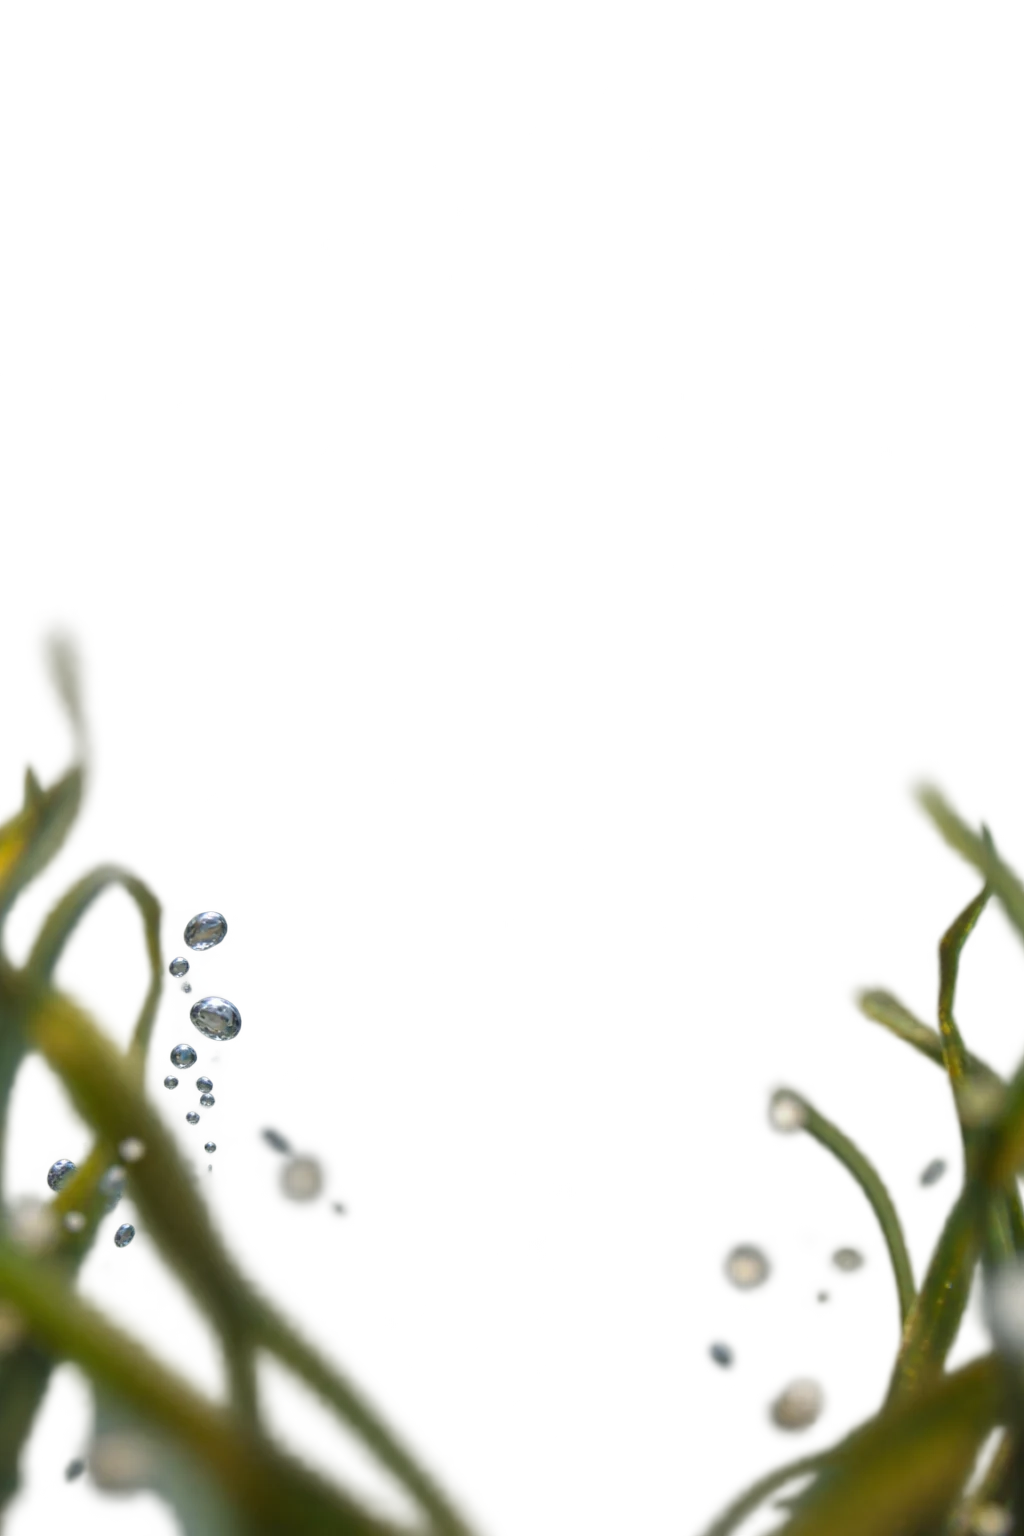
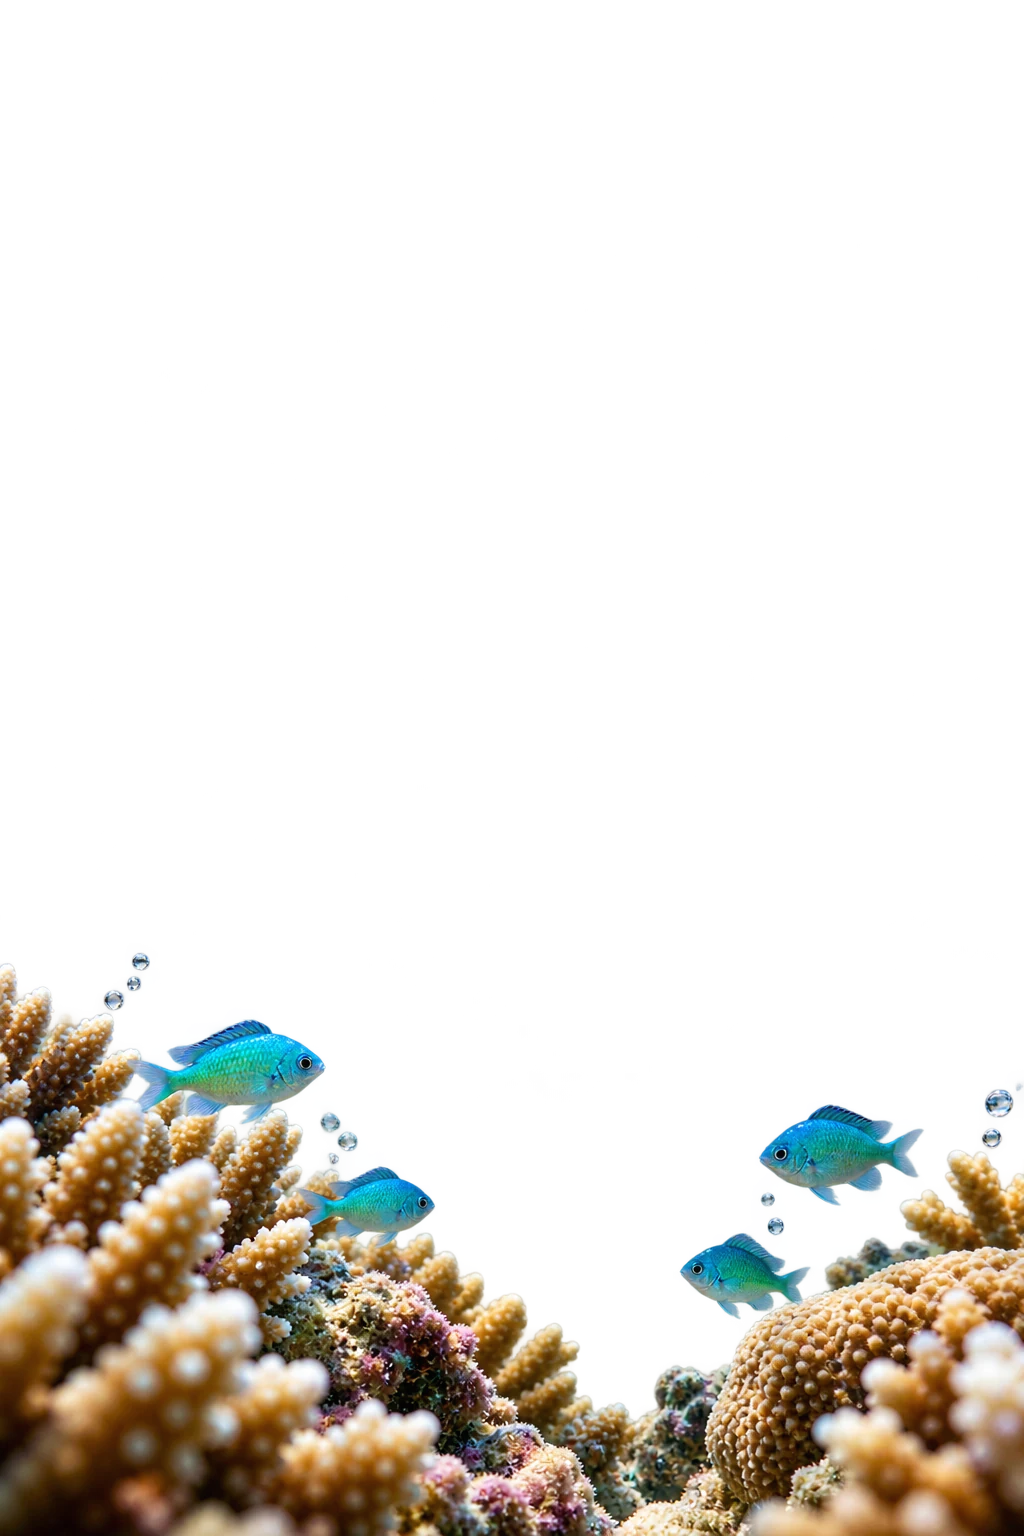
Reef gets its own coral-and-damselfish foreground; drop the Mars rock overlays
The AI rocks never matched NASA's photos closely enough and hid Ingenuity.
Foregrounds can also carve a soft clearing (frontClear) around a subject.

Changed region(s): [[0.0, 0.4062, 1.0, 1.0]]

diff --git a/js/channels.js b/js/channels.js
@@ -22,7 +22,7 @@ export const CHANNELS = [
       },
       {
         file: 'mars-wind', mode: 'loop',
-        art: { img: 'art/above/mars-wind.webp', front: 'art/above/mars-wind-front.webp', frontFilter: 'hue-rotate(14deg) saturate(0.62) brightness(0.92)', credit: 'Image: Jezero Crater on sol 44, Perseverance · NASA/JPL-Caltech', focus: [0.45, 0.55], fx: [{ type: 'mist', at: [0.52], color: '225,175,135', alpha: 0.1 }, { type: 'sheen', color: '255,215,170', alpha: 0.05, angle: 0.25, period: 55 }, { type: 'motes', color: '235,190,150', n: 70, fall: 2, drift: -22, alpha: 0.35 }] },
+        art: { img: 'art/above/mars-wind.webp', credit: 'Image: Jezero Crater on sol 44, Perseverance · NASA/JPL-Caltech', focus: [0.45, 0.55], fx: [{ type: 'mist', at: [0.52], color: '225,175,135', alpha: 0.1 }, { type: 'sheen', color: '255,215,170', alpha: 0.05, angle: 0.25, period: 55 }, { type: 'motes', color: '235,190,150', n: 70, fall: 2, drift: -22, alpha: 0.35 }] },
         title: 'Wind on Mars',
         place: 'Jezero Crater · 22 February 2021',
         about: 'This recording was made on Feb. 22, 2021, on the fourth sol (Martian day) by the SuperCam instrument on NASA’s Perseverance rover after deployment of the rover’s mast. Some wind can be heard, especially around 20 seconds into the recording.',
@@ -31,7 +31,7 @@ export const CHANNELS = [
       },
       {
         file: 'mars-dust-devil', mode: 'loop',
-        art: { img: 'art/above/mars-dust-devil.webp', front: 'art/above/mars-dust-devil-front.webp', frontFilter: 'hue-rotate(14deg) saturate(0.62) brightness(0.92)', gapAfter: 0.7, credit: 'Image: a dust devil on the crater ridge, 30 July 2021 · NASA/JPL-Caltech', focus: [0.6, 0.12], fx: [{ type: 'mist', at: [0.45, 0.62], color: '225,180,140', alpha: 0.09 }, { type: 'motes', color: '235,190,150', n: 90, fall: -3, drift: -30, alpha: 0.35 }] },
+        art: { img: 'art/above/mars-dust-devil.webp', gapAfter: 0.7, credit: 'Image: a dust devil on the crater ridge, 30 July 2021 · NASA/JPL-Caltech', focus: [0.6, 0.12], fx: [{ type: 'mist', at: [0.45, 0.62], color: '225,180,140', alpha: 0.09 }, { type: 'motes', color: '235,190,150', n: 90, fall: -3, drift: -30, alpha: 0.35 }] },
         title: 'A dust devil on Mars',
         place: 'Jezero Crater · 27 September 2021',
         about: 'The dust devil passed directly over Perseverance on Sept. 27, 2021, the 215th Martian day, or sol, of the mission… the first time any such recording has been made. It was 82 feet (25 meters) wide, at least 387 feet (118 meters) tall, and moving at about 12 mph (19 kph).',

diff --git a/js/panorama.js b/js/panorama.js
@@ -111,6 +111,17 @@ export function panorama(cfg) {
     grad.addColorStop(0, 'rgba(0,0,0,0)'); grad.addColorStop(0.1, 'rgba(0,0,0,1)');
     grad.addColorStop(0.9, 'rgba(0,0,0,1)'); grad.addColorStop(1, 'rgba(0,0,0,0)');
     mask(g, grad, pw, ph);
+    // a soft clearing so the foreground never hides the star of the picture
+    if (p.frontClear) {
+      const [cx, cy, rx, ry] = p.frontClear;
+      g.save();
+      g.globalCompositeOperation = 'destination-out';
+      g.translate(cx * pw, cy * ph); g.scale(1, ry / rx);
+      const hole = g.createRadialGradient(0, 0, 0, 0, 0, rx * pw);
+      hole.addColorStop(0, 'rgba(0,0,0,1)'); hole.addColorStop(0.55, 'rgba(0,0,0,0.9)'); hole.addColorStop(1, 'rgba(0,0,0,0)');
+      g.fillStyle = hole; g.fillRect(-rx * pw, -rx * pw, rx * pw * 2, rx * pw * 2);
+      g.restore();
+    }
     return c2;
   }
 
